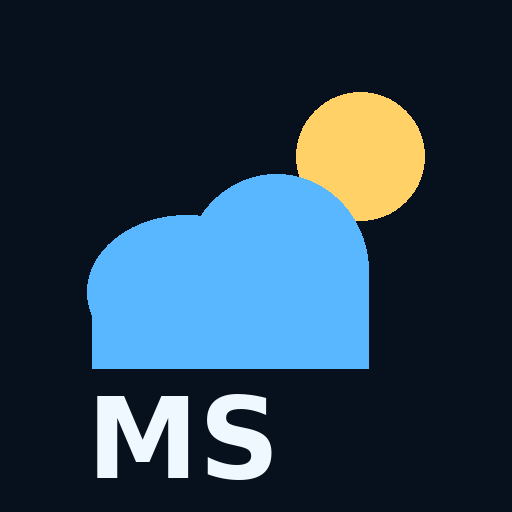
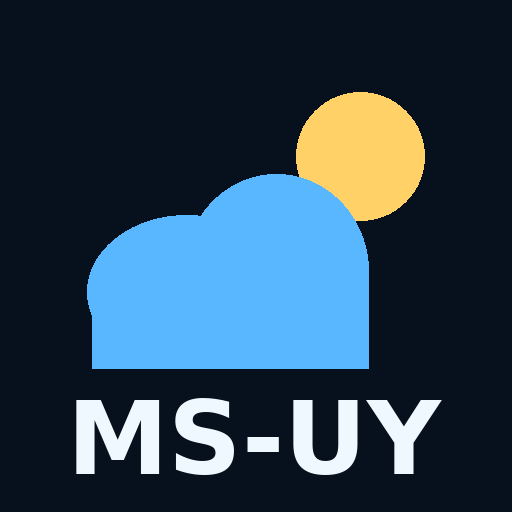
Add files via upload
Versión 2.0

Changed region(s): [[0.125, 0.75, 0.875, 0.9375]]

diff --git a/app.js b/app.js
@@ -1,87 +1,125 @@
 
-const LAT=-31.3881,LON=-57.9598,$=x=>document.getElementById(x);
-const WEATHER_REFRESH=10*60*1000, RADAR_REFRESH=5*60*1000;
-let weatherTimer=null, radarTimer=null, countdownTimer=null, nextWeatherAt=null;
+const $=id=>document.getElementById(id);
+const REFRESH=10*60*1000;
+let nextUpdateAt=0, weatherTimer=null, countdownTimer=null;
 
-function wx(c){const m={0:["Despejado","☀"],1:["Mayormente despejado","🌤"],2:["Parcialmente nublado","⛅"],3:["Cubierto","☁"],45:["Niebla","🌫"],51:["Llovizna","🌦"],53:["Llovizna","🌦"],55:["Llovizna","🌧"],61:["Lluvia débil","🌦"],63:["Lluvia","🌧"],65:["Lluvia intensa","🌧"],80:["Chaparrones","🌦"],81:["Chaparrones","🌧"],82:["Chaparrones fuertes","⛈"],95:["Tormenta","⛈"],96:["Tormenta con granizo","⛈"],99:["Tormenta fuerte","⛈"]};return m[c]||["Variable","🌦"]}
+const CITIES=[
+["Salto","Salto",-31.3881,-57.9598],["Artigas","Artigas",-30.4000,-56.4667],["Canelones","Canelones",-34.5228,-56.2778],
+["Melo","Cerro Largo",-32.3703,-54.1675],["Colonia del Sacramento","Colonia",-34.4626,-57.8398],["Durazno","Durazno",-33.3806,-56.5236],
+["Trinidad","Flores",-33.5165,-56.8996],["Florida","Florida",-34.0956,-56.2142],["Minas","Lavalleja",-34.3759,-55.2377],
+["Maldonado","Maldonado",-34.9000,-54.9500],["Montevideo","Montevideo",-34.9011,-56.1645],["Paysandú","Paysandú",-32.3214,-58.0756],
+["Fray Bentos","Río Negro",-33.1325,-58.2956],["Rivera","Rivera",-30.9053,-55.5508],["Rocha","Rocha",-34.4833,-54.3333],
+["San José de Mayo","San José",-34.3375,-56.7136],["Mercedes","Soriano",-33.2524,-58.0305],["Tacuarembó","Tacuarembó",-31.7333,-55.9833],
+["Treinta y Tres","Treinta y Tres",-33.2333,-54.3833],["Punta del Este","Maldonado",-34.9626,-54.9515],["Young","Río Negro",-32.6833,-57.6333],
+["Bella Unión","Artigas",-30.2597,-57.5992],["Daymán","Salto",-31.456,-57.907],["Chuy","Rocha",-33.697,-53.459]
+];
+
+function wx(c){const m={0:["Despejado","☀"],1:["Mayormente despejado","🌤"],2:["Parcialmente nublado","⛅"],3:["Cubierto","☁"],45:["Niebla","🌫"],48:["Niebla","🌫"],51:["Llovizna","🌦"],53:["Llovizna","🌦"],55:["Llovizna fuerte","🌧"],61:["Lluvia débil","🌦"],63:["Lluvia","🌧"],65:["Lluvia intensa","🌧"],80:["Chaparrones","🌦"],81:["Chaparrones","🌧"],82:["Chaparrones fuertes","⛈"],95:["Tormenta","⛈"],96:["Tormenta con granizo","⛈"],99:["Tormenta fuerte","⛈"]};return m[c]||["Variable","🌦"]}
 function compass(d){return ["N","NE","E","SE","S","SO","O","NO"][Math.round(d/45)%8]}
 function uv(speed,deg){let r=deg*Math.PI/180;return {u:-speed*Math.sin(r),v:-speed*Math.cos(r)}}
 function shear(s1,d1,s2,d2){let a=uv(s1,d1),b=uv(s2,d2);return Math.sqrt((b.u-a.u)**2+(b.v-a.v)**2)}
-function day(s){return new Date(s+"T12:00").toLocaleDateString("es-UY",{weekday:"short",day:"2-digit"})}
-function setOnlineState(){ $("offlineBanner").classList.toggle("hidden", navigator.onLine); }
+function dayName(s){return new Date(s+"T12:00").toLocaleDateString("es-UY",{weekday:"short",day:"2-digit"})}
+function setOnline(){ $("offlineBanner").classList.toggle("hidden",navigator.onLine) }
 function saveCache(key,data){localStorage.setItem(key,JSON.stringify({time:Date.now(),data}))}
 function loadCache(key){try{return JSON.parse(localStorage.getItem(key)||"null")}catch{return null}}
 
-function renderMain(d, fromCache=false){
+function populateCities(filter=""){
+  const f=filter.trim().toLowerCase(), old=$("citySelect").value;
+  $("citySelect").innerHTML="";
+  CITIES.filter(c=>!f||c[0].toLowerCase().includes(f)||c[1].toLowerCase().includes(f)).forEach(c=>{
+    const o=document.createElement("option"); o.value=c[0]; o.textContent=`${c[0]} · ${c[1]}`; $("citySelect").appendChild(o);
+  });
+  if([...$("citySelect").options].some(o=>o.value===old)) $("citySelect").value=old;
+}
+function currentCity(){return CITIES.find(x=>x[0]===$("citySelect").value)||CITIES[0]}
+
+function renderCity(d,name,dept,fromCache=false){
   const c=d.current,[txt,ico]=wx(c.weather_code);
-  $("temp").textContent=Math.round(c.temperature_2m)+"°";$("cond").textContent=txt;$("icon").textContent=ico;
-  $("feel").textContent=Math.round(c.apparent_temperature)+"°";$("dew").textContent=Math.round(c.dew_point_2m)+"°";$("hum").textContent=Math.round(c.relative_humidity_2m)+"%";
-  $("press").textContent=Math.round(c.pressure_msl)+" hPa";$("wind").textContent=Math.round(c.wind_speed_10m)+" km/h";$("gust").textContent=Math.round(c.wind_gusts_10m)+" km/h";$("dir").textContent=compass(c.wind_direction_10m)+" "+Math.round(c.wind_direction_10m)+"°";$("cloud").textContent=Math.round(c.cloud_cover)+"%";
-  $("updated").textContent=(fromCache?"Últimos datos guardados · ":"Actualizado · ")+new Date().toLocaleString("es-UY",{day:"2-digit",month:"2-digit",hour:"2-digit",minute:"2-digit"});
-  let i=d.hourly.time.findIndex(t=>t>=c.time);if(i<0)i=0;
+  $("locationName").textContent=`${name} · ${dept}`;
+  $("temp").textContent=Math.round(c.temperature_2m)+"°"; $("cond").textContent=txt; $("icon").textContent=ico;
+  $("feel").textContent=Math.round(c.apparent_temperature)+"°"; $("dew").textContent=Math.round(c.dew_point_2m)+"°"; $("hum").textContent=Math.round(c.relative_humidity_2m)+"%";
+  $("press").textContent=Math.round(c.pressure_msl)+" hPa"; $("wind").textContent=Math.round(c.wind_speed_10m)+" km/h"; $("gust").textContent=Math.round(c.wind_gusts_10m)+" km/h";
+  $("dir").textContent=compass(c.wind_direction_10m)+" "+Math.round(c.wind_direction_10m)+"°"; $("cloud").textContent=Math.round(c.cloud_cover)+"%";
+  $("updated").textContent=(fromCache?"Datos guardados · ":"Actualizado · ")+new Date().toLocaleTimeString("es-UY",{hour:"2-digit",minute:"2-digit"});
+  let i=d.hourly.time.findIndex(t=>t>=c.time); if(i<0)i=0;
   let cape=d.hourly.cape[i]??0,cin=d.hourly.convective_inhibition[i]??0,li=d.hourly.lifted_index[i];
   let shr=shear(d.hourly.wind_speed_10m[i],d.hourly.wind_direction_10m[i],d.hourly.wind_speed_500hPa[i],d.hourly.wind_direction_500hPa[i]);
-  $("cape").textContent=Math.round(cape)+" J/kg";$("cin").textContent=Math.round(cin)+" J/kg";$("li").textContent=(li==null?"--":li.toFixed(1));$("shear").textContent=Math.round(shr)+" km/h";
-  $("t850").textContent=Math.round(d.hourly.temperature_850hPa[i])+" °C";$("rh850").textContent=Math.round(d.hourly.relative_humidity_850hPa[i])+" %";$("w850").textContent=Math.round(d.hourly.wind_speed_850hPa[i])+" km/h "+compass(d.hourly.wind_direction_850hPa[i]);$("z850").textContent=Math.round(d.hourly.geopotential_height_850hPa[i])+" m";
-  $("t500").textContent=Math.round(d.hourly.temperature_500hPa[i])+" °C";$("rh500").textContent=Math.round(d.hourly.relative_humidity_500hPa[i])+" %";$("w500").textContent=Math.round(d.hourly.wind_speed_500hPa[i])+" km/h "+compass(d.hourly.wind_direction_500hPa[i]);$("z500").textContent=Math.round(d.hourly.geopotential_height_500hPa[i])+" m";
-  let risk=(cape>1500&&li<0&&shr>35)?"Entorno potencialmente favorable a tormentas organizadas":(cape>500&&li<1)?"Hay inestabilidad a vigilar":"Señales convectivas actualmente limitadas";
-  $("stormRead").innerHTML=`<span class="pill ${risk.startsWith("Entorno")?"red":risk.startsWith("Hay")?"amber":"green"}">${risk}</span>`;
+  $("cape").textContent=Math.round(cape)+" J/kg"; $("cin").textContent=Math.round(cin)+" J/kg"; $("li").textContent=li==null?"--":li.toFixed(1); $("shear").textContent=Math.round(shr)+" km/h";
+  $("t850").textContent=Math.round(d.hourly.temperature_850hPa[i])+" °C"; $("rh850").textContent=Math.round(d.hourly.relative_humidity_850hPa[i])+" %"; $("w850").textContent=Math.round(d.hourly.wind_speed_850hPa[i])+" km/h "+compass(d.hourly.wind_direction_850hPa[i]); $("z850").textContent=Math.round(d.hourly.geopotential_height_850hPa[i])+" m";
+  $("t500").textContent=Math.round(d.hourly.temperature_500hPa[i])+" °C"; $("rh500").textContent=Math.round(d.hourly.relative_humidity_500hPa[i])+" %"; $("w500").textContent=Math.round(d.hourly.wind_speed_500hPa[i])+" km/h "+compass(d.hourly.wind_direction_500hPa[i]); $("z500").textContent=Math.round(d.hourly.geopotential_height_500hPa[i])+" m";
+
+  let risk=(cape>1500&&li<0&&shr>35)?"Entorno favorable a tormentas organizadas":(cape>500&&li<1)?"Inestabilidad a vigilar":"Señales convectivas limitadas";
+  $("stormRead").innerHTML=`<span class="pill ${risk.startsWith("Entorno")?"red":risk.startsWith("Inestabilidad")?"amber":"green"}">${risk}</span>`;
+
   $("hourly").innerHTML="";
-  for(let k=i;k<Math.min(i+12,d.hourly.time.length);k++){let [t,ic]=wx(d.hourly.weather_code[k]);$("hourly").innerHTML+=`<div class="hour"><div class="time">${d.hourly.time[k].slice(11,16)}</div><div class="ico">${ic}</div><div class="hv">${Math.round(d.hourly.temperature_2m[k])}°</div><div class="mini">☔ ${d.hourly.precipitation_probability[k]??0}%</div><div class="mini">CAPE ${Math.round(d.hourly.cape[k]||0)}</div></div>`}
+  for(let k=i;k<Math.min(i+12,d.hourly.time.length);k++){
+    let [t,ic]=wx(d.hourly.weather_code[k]);
+    $("hourly").innerHTML+=`<div class="hour"><div class="time">${d.hourly.time[k].slice(11,16)}</div><div class="ico">${ic}</div><div class="hv">${Math.round(d.hourly.temperature_2m[k])}°</div><div class="mini">☔ ${d.hourly.precipitation_probability[k]??0}%</div><div class="mini">CAPE ${Math.round(d.hourly.cape[k]||0)}</div></div>`;
+  }
+
   $("daily").innerHTML="";
-  d.daily.time.forEach((x,k)=>{let [t,ic]=wx(d.daily.weather_code[k]);$("daily").innerHTML+=`<div class="day"><div><b>${day(x)}</b><br><span class="muted">${t}</span></div><div style="font-size:22px">${ic}</div><div><b>${Math.round(d.daily.temperature_2m_max[k])}°</b> / <span class="muted">${Math.round(d.daily.temperature_2m_min[k])}°</span></div><div>☔ ${d.daily.precipitation_probability_max[k]??0}%<br><span class="muted">${Number(d.daily.precipitation_sum[k]||0).toFixed(1)} mm</span></div></div>`});
-  $("summary").textContent=`850 hPa: ${Math.round(d.hourly.temperature_850hPa[i])} °C con ${Math.round(d.hourly.relative_humidity_850hPa[i])}% HR. 500 hPa: ${Math.round(d.hourly.temperature_500hPa[i])} °C. CAPE ${Math.round(cape)} J/kg, LI ${li==null?"--":li.toFixed(1)} y cizalladura aproximada ${Math.round(shr)} km/h. Hoy se prevén ${Number(d.daily.precipitation_sum[0]||0).toFixed(1)} mm y ráfagas máximas cercanas a ${Math.round(d.daily.wind_gusts_10m_max[0]||0)} km/h.`;
+  d.daily.time.forEach((x,k)=>{
+    let [t,ic]=wx(d.daily.weather_code[k]);
+    $("daily").innerHTML+=`<div class="day"><div><b>${dayName(x)}</b><br><span class="muted">${t}</span></div><div style="font-size:22px">${ic}</div><div><b>${Math.round(d.daily.temperature_2m_max[k])}°</b> / <span class="muted">${Math.round(d.daily.temperature_2m_min[k])}°</span></div><div>☔ ${d.daily.precipitation_probability_max[k]??0}%<br><span class="muted">${Number(d.daily.precipitation_sum[k]||0).toFixed(1)} mm</span></div></div>`;
+  });
+
+  $("summary").textContent=`${name}: ${Math.round(c.temperature_2m)} °C, ${txt.toLowerCase()}. Hoy: ${Math.round(d.daily.temperature_2m_max[0])}° / ${Math.round(d.daily.temperature_2m_min[0])}°, precipitación ${Number(d.daily.precipitation_sum[0]||0).toFixed(1)} mm, ráfagas máximas ${Math.round(d.daily.wind_gusts_10m_max[0]||0)} km/h. CAPE ${Math.round(cape)} J/kg, LI ${li==null?"--":li.toFixed(1)}.`;
 }
 
-async function loadWeather(){
+async function loadCity(){
+  const [name,dept,lat,lon]=currentCity();
   const hourly=["temperature_2m","dew_point_2m","relative_humidity_2m","pressure_msl","precipitation_probability","weather_code","wind_speed_10m","wind_direction_10m","wind_gusts_10m","cape","convective_inhibition","lifted_index","temperature_850hPa","relative_humidity_850hPa","wind_speed_850hPa","wind_direction_850hPa","geopotential_height_850hPa","temperature_500hPa","relative_humidity_500hPa","wind_speed_500hPa","wind_direction_500hPa","geopotential_height_500hPa"].join(",");
-  const url=`https://api.open-meteo.com/v1/forecast?latitude=${LAT}&longitude=${LON}&current=temperature_2m,relative_humidity_2m,apparent_temperature,dew_point_2m,weather_code,cloud_cover,pressure_msl,wind_speed_10m,wind_direction_10m,wind_gusts_10m&hourly=${hourly}&daily=weather_code,temperature_2m_max,temperature_2m_min,precipitation_sum,precipitation_probability_max,wind_gusts_10m_max&timezone=America%2FMontevideo&forecast_days=7`;
+  const url=`https://api.open-meteo.com/v1/forecast?latitude=${lat}&longitude=${lon}&current=temperature_2m,relative_humidity_2m,apparent_temperature,dew_point_2m,weather_code,cloud_cover,pressure_msl,wind_speed_10m,wind_direction_10m,wind_gusts_10m&hourly=${hourly}&daily=weather_code,temperature_2m_max,temperature_2m_min,precipitation_sum,precipitation_probability_max,wind_gusts_10m_max&timezone=America%2FMontevideo&forecast_days=7`;
   try{
     const r=await fetch(url,{cache:"no-store"}); if(!r.ok) throw new Error(r.status);
-    const d=await r.json(); saveCache("met_salto_weather",d); renderMain(d,false);
-    nextWeatherAt=Date.now()+WEATHER_REFRESH;
+    const d=await r.json(); saveCache("met_salto_city_"+name,d); renderCity(d,name,dept,false);
+    nextUpdateAt=Date.now()+REFRESH;
   }catch(e){
-    const cached=loadCache("met_salto_weather");
-    if(cached) renderMain(cached.data,true);
+    const cached=loadCache("met_salto_city_"+name);
+    if(cached) renderCity(cached.data,name,dept,true);
   }
-  setOnlineState();
+  setOnline();
 }
 
-async function loadRadar(){
+async function loadNational(){
+  const capitals=CITIES.slice(0,19);
+  const lats=capitals.map(c=>c[2]).join(","), lons=capitals.map(c=>c[3]).join(",");
+  const url=`https://api.open-meteo.com/v1/forecast?latitude=${lats}&longitude=${lons}&current=temperature_2m,weather_code,wind_speed_10m&daily=temperature_2m_max,temperature_2m_min,precipitation_sum&timezone=America%2FMontevideo&forecast_days=1`;
   try{
-    const r=await fetch("https://api.rainviewer.com/public/weather-maps.json",{cache:"no-store"}); if(!r.ok) throw new Error(r.status);
-    const j=await r.json(),f=j.radar.past.at(-1);
-    const src=`${j.host}${f.path}/512/6/${LAT}/${LON}/2/1_0.png`;
-    $("radar").src=src;
-    $("radarTime").textContent="Radar "+new Date(f.time*1000).toLocaleTimeString("es-UY",{hour:"2-digit",minute:"2-digit"});
-    saveCache("met_salto_radar",{src,time:f.time});
+    const r=await fetch(url,{cache:"no-store"}); if(!r.ok) throw new Error(r.status);
+    const arr=await r.json(), data=Array.isArray(arr)?arr:[arr];
+    $("nationalGrid").innerHTML="";
+    data.forEach((d,i)=>{
+      const c=capitals[i],[txt,ico]=wx(d.current.weather_code);
+      $("nationalGrid").innerHTML+=`<div class="cityCard" data-city="${c[0]}"><div class="cityHead"><div><div class="cityName">${c[0]}</div><div class="muted">${c[1]}</div></div><div><span style="font-size:22px">${ico}</span> <span class="cityTemp">${Math.round(d.current.temperature_2m)}°</span></div></div><div class="cityMeta">${txt} · Viento ${Math.round(d.current.wind_speed_10m)} km/h<br>Hoy ${Math.round(d.daily.temperature_2m_max[0])}° / ${Math.round(d.daily.temperature_2m_min[0])}° · Lluvia ${Number(d.daily.precipitation_sum[0]||0).toFixed(1)} mm</div></div>`;
+    });
+    document.querySelectorAll(".cityCard").forEach(el=>el.addEventListener("click",()=>{
+      $("citySelect").value=el.dataset.city; loadCity(); window.scrollTo({top:0,behavior:"smooth"});
+    }));
   }catch(e){
-    const cached=loadCache("met_salto_radar");
-    if(cached){$("radar").src=cached.data.src;$("radarTime").textContent="Radar guardado";}
+    $("nationalGrid").innerHTML='<div class="status">No se pudo cargar el resumen nacional.</div>';
   }
 }
 
 function updateCountdown(){
-  if(!nextWeatherAt){$("nextUpdate").textContent="";return}
-  const s=Math.max(0,Math.floor((nextWeatherAt-Date.now())/1000));
-  $("nextUpdate").textContent=`Próxima actualización automática en ${Math.floor(s/60)}:${String(s%60).padStart(2,"0")}`;
+  if(!nextUpdateAt){$("nextUpdate").textContent="";return}
+  const s=Math.max(0,Math.floor((nextUpdateAt-Date.now())/1000));
+  $("nextUpdate").textContent=`Próxima actualización en ${Math.floor(s/60)}:${String(s%60).padStart(2,"0")}`;
 }
 
-function startTimers(){
-  clearInterval(weatherTimer); clearInterval(radarTimer); clearInterval(countdownTimer);
-  weatherTimer=setInterval(loadWeather,WEATHER_REFRESH);
-  radarTimer=setInterval(loadRadar,RADAR_REFRESH);
-  countdownTimer=setInterval(updateCountdown,1000);
-}
+async function loadAll(){setOnline(); await Promise.all([loadCity(),loadNational()]);}
 
-async function loadAll(){await Promise.all([loadWeather(),loadRadar()]);}
-
+populateCities();
+$("citySelect").value="Salto";
+$("citySelect").addEventListener("change",loadCity);
+$("citySearch").addEventListener("input",e=>populateCities(e.target.value));
 $("refreshBtn").addEventListener("click",loadAll);
-window.addEventListener("online",()=>{setOnlineState();loadAll()});
-window.addEventListener("offline",setOnlineState);
+
+window.addEventListener("online",loadAll);
+window.addEventListener("offline",setOnline);
 document.addEventListener("visibilitychange",()=>{
   if(document.visibilityState==="visible"){
-    const cached=loadCache("met_salto_weather");
+    const cached=loadCache("met_salto_city_"+currentCity()[0]);
     if(!cached || Date.now()-cached.time>5*60*1000) loadAll();
   }
 });
@@ -90,6 +128,6 @@ if("serviceWorker" in navigator){
   window.addEventListener("load",()=>navigator.serviceWorker.register("./service-worker.js").catch(()=>{}));
 }
 
-setOnlineState();
+weatherTimer=setInterval(loadAll,REFRESH);
+countdownTimer=setInterval(updateCountdown,1000);
 loadAll();
-startTimers();

diff --git a/style.css b/style.css
@@ -1,20 +1,27 @@
 
-:root{--bg:#07111e;--card:#102038;--card2:#142842;--text:#eff7ff;--muted:#9bb0c7;--blue:#59b7ff;--amber:#ffd166;--red:#ff7b7b;--green:#72e5a2}
-*{box-sizing:border-box} body{margin:0;font-family:-apple-system,BlinkMacSystemFont,"Segoe UI",Roboto,Arial,sans-serif;color:var(--text);background:linear-gradient(#07111e,#0a1626 50%,#07111e);min-height:100vh}
-header{position:sticky;top:0;z-index:30;padding:calc(env(safe-area-inset-top)+14px) 15px 11px;background:rgba(7,17,30,.9);backdrop-filter:blur(15px);border-bottom:1px solid rgba(255,255,255,.06)}
-.head{max-width:1080px;margin:auto;display:flex;align-items:center;justify-content:space-between;gap:12px}
-h1{font-size:27px;margin:0}.sub{font-size:12px;color:var(--muted);margin-top:3px}
-button{border:1px solid rgba(255,255,255,.09);background:#173b61;color:#fff;border-radius:12px;padding:9px 12px;font-weight:700}
-main{max-width:1080px;margin:auto;padding:13px}
-.grid{display:grid;gap:11px}.two{grid-template-columns:1fr}@media(min-width:780px){.two{grid-template-columns:1.15fr .85fr}.metrics{grid-template-columns:repeat(4,1fr)!important}.upper{grid-template-columns:repeat(2,1fr)!important}}
-.card{background:linear-gradient(180deg,var(--card2),var(--card));border:1px solid rgba(255,255,255,.06);border-radius:18px;padding:14px;box-shadow:0 12px 30px rgba(0,0,0,.16);margin-bottom:11px}
-.hero{padding:19px}.heroRow{display:flex;justify-content:space-between}.temp{font-size:67px;font-weight:760;letter-spacing:-4px;line-height:.95}.wxicon{font-size:57px}.condition{font-size:19px;margin-top:7px}.status{font-size:11px;color:var(--muted);margin-top:6px}
-.metrics{display:grid;grid-template-columns:repeat(2,1fr);gap:8px}.metric{background:rgba(255,255,255,.035);border:1px solid rgba(255,255,255,.05);border-radius:14px;padding:11px}.label{font-size:11px;color:var(--muted)}.value{font-size:20px;font-weight:720;margin-top:4px}.sectionTitle{font-size:17px;font-weight:750;margin-bottom:10px}
-.hourly{display:flex;overflow-x:auto;gap:8px;padding-bottom:4px}.hour{min-width:83px;text-align:center;border:1px solid rgba(255,255,255,.05);background:rgba(255,255,255,.03);border-radius:13px;padding:9px}.time{font-size:12px;color:var(--muted)}.ico{font-size:24px;margin:4px}.hv{font-weight:750;font-size:18px}.mini{font-size:11px;color:#a6d9ff;margin-top:4px}
+:root{--bg:#07111e;--card:#102038;--card2:#142842;--text:#eef7ff;--muted:#9bb0c7;--blue:#59b7ff;--green:#72e5a2;--amber:#ffd166;--red:#ff7b7b;--line:rgba(255,255,255,.07)}
+*{box-sizing:border-box}
+body{margin:0;font-family:-apple-system,BlinkMacSystemFont,"Segoe UI",Roboto,Arial,sans-serif;background:linear-gradient(#07111e,#0b1726 52%,#07111e);color:var(--text);min-height:100vh}
+header{position:sticky;top:0;z-index:20;background:rgba(7,17,30,.92);backdrop-filter:blur(16px);border-bottom:1px solid var(--line);padding:calc(env(safe-area-inset-top)+12px) 14px 10px}
+.head{max-width:1180px;margin:auto;display:flex;align-items:center;justify-content:space-between;gap:12px}
+h1{font-size:28px;margin:0}.sub{font-size:12px;color:var(--muted);margin-top:3px}
+button,select,input{font:inherit}
+button{border:1px solid rgba(255,255,255,.1);background:#173b61;color:#fff;border-radius:12px;padding:10px 13px;font-weight:700}
+main{max-width:1180px;margin:auto;padding:13px}
+.card{background:linear-gradient(180deg,var(--card2),var(--card));border:1px solid var(--line);border-radius:18px;padding:14px;box-shadow:0 12px 30px rgba(0,0,0,.15);margin-bottom:11px}
+.grid{display:grid;gap:11px}.two{grid-template-columns:1fr}
+@media(min-width:820px){.two{grid-template-columns:1.15fr .85fr}.metrics{grid-template-columns:repeat(4,1fr)!important}.upper{grid-template-columns:repeat(2,1fr)!important}.nationalGrid{grid-template-columns:repeat(3,1fr)!important}}
+.hero{padding:18px}.heroRow{display:flex;justify-content:space-between;gap:15px}.temp{font-size:68px;font-weight:780;letter-spacing:-4px;line-height:.95}.wxicon{font-size:58px}.condition{font-size:19px;margin-top:8px}.status{font-size:11px;color:var(--muted);margin-top:6px}
+.selectorRow{display:grid;grid-template-columns:1fr;gap:8px;margin-top:14px}
+@media(min-width:600px){.selectorRow{grid-template-columns:1fr 1fr}}
+select,input{width:100%;background:#0c1a2b;color:#fff;border:1px solid rgba(255,255,255,.1);border-radius:12px;padding:11px 12px}
+.sectionTitle{font-size:17px;font-weight:760;margin-bottom:10px}
+.metrics{display:grid;grid-template-columns:repeat(2,1fr);gap:8px}.metric{background:rgba(255,255,255,.035);border:1px solid rgba(255,255,255,.05);border-radius:14px;padding:11px}.label{font-size:11px;color:var(--muted)}.value{font-size:20px;font-weight:720;margin-top:4px}
+.hourly{display:flex;overflow-x:auto;gap:8px;padding-bottom:4px}.hour{min-width:84px;text-align:center;background:rgba(255,255,255,.03);border:1px solid rgba(255,255,255,.05);border-radius:13px;padding:9px}.time{font-size:12px;color:var(--muted)}.ico{font-size:24px;margin:4px}.hv{font-size:18px;font-weight:750}.mini{font-size:11px;color:#a9d9ff;margin-top:4px}
 .daily{display:grid}.day{display:grid;grid-template-columns:1.35fr .4fr .75fr .75fr;align-items:center;gap:5px;padding:9px 2px;border-bottom:1px solid rgba(255,255,255,.06);font-size:13px}.muted{color:var(--muted)}
 .upper{display:grid;grid-template-columns:1fr;gap:9px}.uCard{background:rgba(255,255,255,.025);border:1px solid rgba(255,255,255,.05);border-radius:14px;padding:12px}.uCard h3{margin:0 0 8px;font-size:15px}.row{display:flex;justify-content:space-between;gap:10px;padding:5px 0;border-bottom:1px solid rgba(255,255,255,.05);font-size:13px}.row:last-child{border:0}
+.pill{display:inline-block;padding:4px 8px;border-radius:999px;font-size:11px;font-weight:750}.green{background:rgba(114,229,162,.12);color:var(--green)}.amber{background:rgba(255,209,102,.12);color:var(--amber)}.red{background:rgba(255,123,123,.12);color:var(--red)}
 .alert{border:1px solid rgba(255,209,102,.22);background:rgba(255,209,102,.07);color:#ffe7aa;padding:11px;border-radius:13px;line-height:1.45;font-size:13px}
-.radarWrap{position:relative;background:#06101b;border-radius:15px;overflow:hidden;min-height:310px}.radarWrap img{display:block;width:100%;min-height:310px;object-fit:cover}.radarBadge{position:absolute;left:9px;top:9px;background:rgba(0,0,0,.65);padding:6px 8px;border-radius:10px;font-size:11px}.cross{position:absolute;left:50%;top:50%;transform:translate(-50%,-50%);font-size:24px;text-shadow:0 1px 4px #000}
-.pill{display:inline-block;padding:3px 7px;border-radius:999px;font-size:11px;font-weight:700}.green{background:rgba(114,229,162,.12);color:var(--green)}.amber{background:rgba(255,209,102,.12);color:var(--amber)}.red{background:rgba(255,123,123,.12);color:var(--red)}
+.nationalGrid{display:grid;grid-template-columns:1fr;gap:8px}.cityCard{background:rgba(255,255,255,.03);border:1px solid rgba(255,255,255,.05);border-radius:14px;padding:11px}.cityHead{display:flex;justify-content:space-between;align-items:center;gap:8px}.cityName{font-weight:750}.cityTemp{font-size:23px;font-weight:780}.cityMeta{font-size:11px;color:var(--muted);margin-top:6px;line-height:1.5}
+.footer{text-align:center;color:var(--muted);font-size:10px;line-height:1.5;margin:16px 0 30px}
 .offline{background:#7f1d1d;color:#fee2e2;border:1px solid #b91c1c;border-radius:12px;padding:9px 11px;margin-bottom:11px;font-size:12px}.hidden{display:none}
-.footer{text-align:center;color:var(--muted);font-size:10px;line-height:1.5;margin:15px 0 30px}

diff --git a/index.html b/index.html
@@ -10,14 +10,14 @@
 <link rel="manifest" href="./manifest.json">
 <link rel="apple-touch-icon" href="./icon-192.png">
 <link rel="stylesheet" href="./style.css">
-<title>Met-Salto</title>
+<title>Met-Salto · Uruguay</title>
 </head>
 <body>
 <header>
   <div class="head">
     <div>
       <h1>Met‑Salto</h1>
-      <div class="sub">Meteorología · Salto, Uruguay</div>
+      <div class="sub">Meteorología de todo Uruguay</div>
     </div>
     <button id="refreshBtn">Actualizar</button>
   </div>
@@ -30,12 +30,18 @@
     <section class="card hero">
       <div class="heroRow">
         <div>
+          <div id="locationName" class="status">Salto</div>
           <div id="temp" class="temp">--°</div>
           <div id="cond" class="condition">Cargando...</div>
           <div id="updated" class="status"></div>
           <div id="nextUpdate" class="status"></div>
         </div>
         <div id="icon" class="wxicon">🌦</div>
+      </div>
+
+      <div class="selectorRow">
+        <select id="citySelect"></select>
+        <input id="citySearch" placeholder="Buscar ciudad o departamento...">
       </div>
     </section>
 
@@ -60,7 +66,7 @@
       <div class="metric"><div class="label">CAPE</div><div id="cape" class="value">--</div></div>
       <div class="metric"><div class="label">CIN</div><div id="cin" class="value">--</div></div>
       <div class="metric"><div class="label">Lifted Index</div><div id="li" class="value">--</div></div>
-      <div class="metric"><div class="label">Cizalladura 0–6 km*</div><div id="shear" class="value">--</div></div>
+      <div class="metric"><div class="label">Cizalladura aprox.</div><div id="shear" class="value">--</div></div>
     </div>
     <div id="stormRead" class="status"></div>
   </section>
@@ -71,19 +77,19 @@
       <div class="uCard">
         <h3>850 hPa · ~1,5 km</h3>
         <div class="row"><span>Temperatura</span><b id="t850">--</b></div>
-        <div class="row"><span>Humedad relativa</span><b id="rh850">--</b></div>
+        <div class="row"><span>Humedad</span><b id="rh850">--</b></div>
         <div class="row"><span>Viento</span><b id="w850">--</b></div>
         <div class="row"><span>Altura geopotencial</span><b id="z850">--</b></div>
       </div>
       <div class="uCard">
         <h3>500 hPa · ~5,6 km</h3>
         <div class="row"><span>Temperatura</span><b id="t500">--</b></div>
-        <div class="row"><span>Humedad relativa</span><b id="rh500">--</b></div>
+        <div class="row"><span>Humedad</span><b id="rh500">--</b></div>
         <div class="row"><span>Viento</span><b id="w500">--</b></div>
         <div class="row"><span>Altura geopotencial</span><b id="z500">--</b></div>
       </div>
     </div>
-    <div class="status">*Aproximación práctica usando viento de 10 m y 500 hPa.</div>
+    <div class="status">*La cizalladura es una aproximación usando viento de 10 m y 500 hPa.</div>
   </section>
 
   <section class="card">
@@ -92,18 +98,13 @@
   </section>
 
   <section class="card">
-    <div class="sectionTitle">Radar de precipitación</div>
-    <div class="radarWrap">
-      <img id="radar" alt="Radar de precipitación">
-      <div id="radarTime" class="radarBadge">Cargando radar…</div>
-      <div class="cross">＋</div>
-    </div>
-    <div class="status">Radar: último barrido disponible. Fuente: RainViewer.</div>
+    <div class="sectionTitle">Pronóstico 7 días</div>
+    <div id="daily" class="daily"></div>
   </section>
 
   <section class="card">
-    <div class="sectionTitle">Pronóstico 7 días</div>
-    <div id="daily" class="daily"></div>
+    <div class="sectionTitle">Resumen nacional · capitales departamentales</div>
+    <div id="nationalGrid" class="nationalGrid"></div>
   </section>
 
   <section class="card">
@@ -112,8 +113,8 @@
   </section>
 
   <div class="footer">
-    Met‑Salto · Open‑Meteo + RainViewer · Uso informativo.<br>
-    Para avisos oficiales consultar INUMET.
+    Met‑Salto · Datos: Open‑Meteo · Actualización automática cada 10 minutos.<br>
+    Uso informativo. Para avisos oficiales consultar INUMET.
   </div>
 </main>
 

diff --git a/service-worker.js b/service-worker.js
@@ -1,5 +1,5 @@
 
-const CACHE="met-salto-v1";
+const CACHE="met-salto-v2-uruguay";
 const ASSETS=["./","./index.html","./style.css","./app.js","./manifest.json","./icon-192.png","./icon-512.png"];
 
 self.addEventListener("install",event=>{
@@ -8,7 +8,9 @@ self.addEventListener("install",event=>{
 });
 
 self.addEventListener("activate",event=>{
-  event.waitUntil(caches.keys().then(keys=>Promise.all(keys.filter(k=>k!==CACHE).map(k=>caches.delete(k)))));
+  event.waitUntil(
+    caches.keys().then(keys=>Promise.all(keys.filter(k=>k!==CACHE).map(k=>caches.delete(k))))
+  );
   self.clients.claim();
 });
 
@@ -17,8 +19,12 @@ self.addEventListener("fetch",event=>{
   if(req.method!=="GET") return;
   const url=new URL(req.url);
   if(url.origin===location.origin){
-    event.respondWith(caches.match(req).then(cached=>cached || fetch(req).then(resp=>{
-      const copy=resp.clone(); caches.open(CACHE).then(c=>c.put(req,copy)); return resp;
-    })));
+    event.respondWith(
+      fetch(req).then(resp=>{
+        const copy=resp.clone();
+        caches.open(CACHE).then(c=>c.put(req,copy));
+        return resp;
+      }).catch(()=>caches.match(req))
+    );
   }
 });
